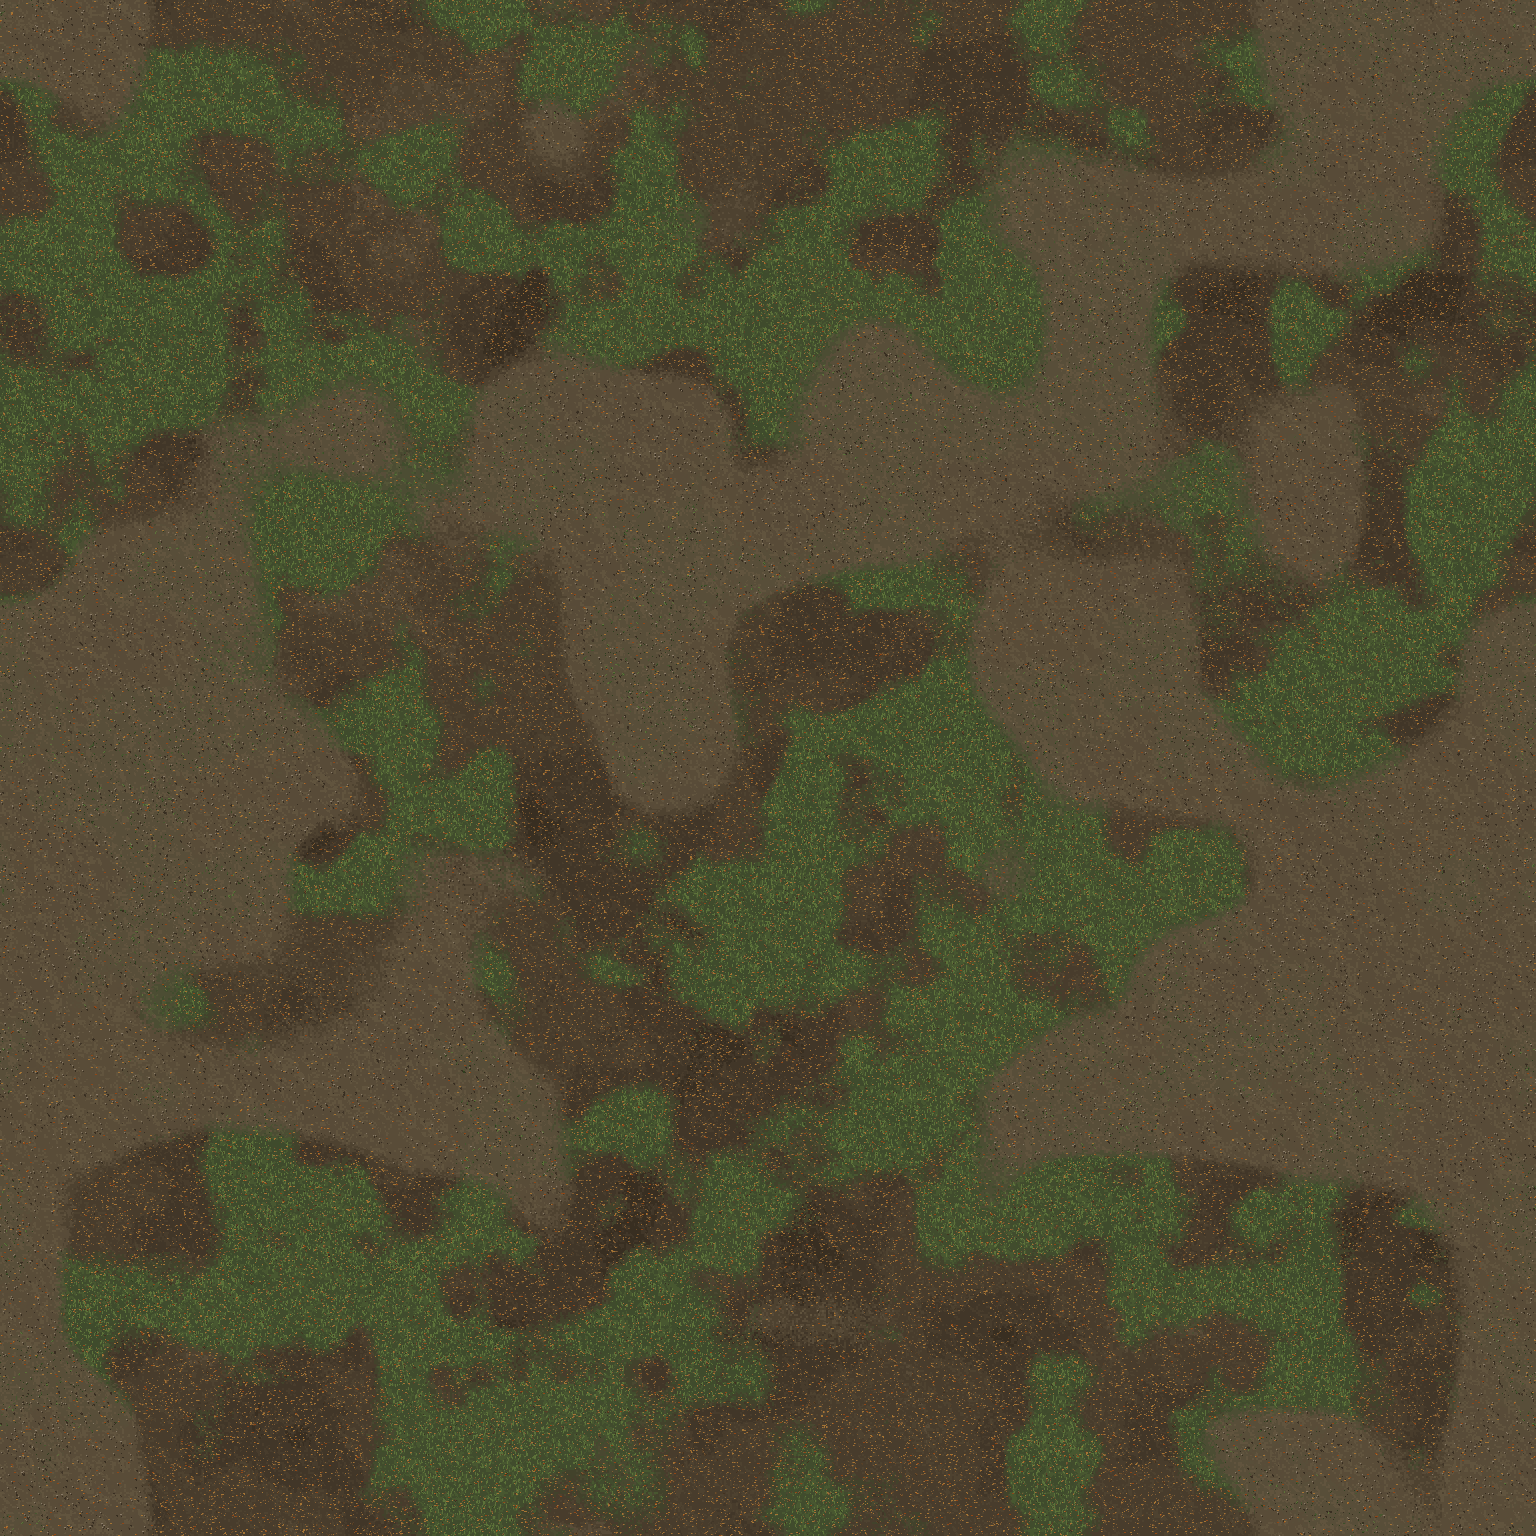
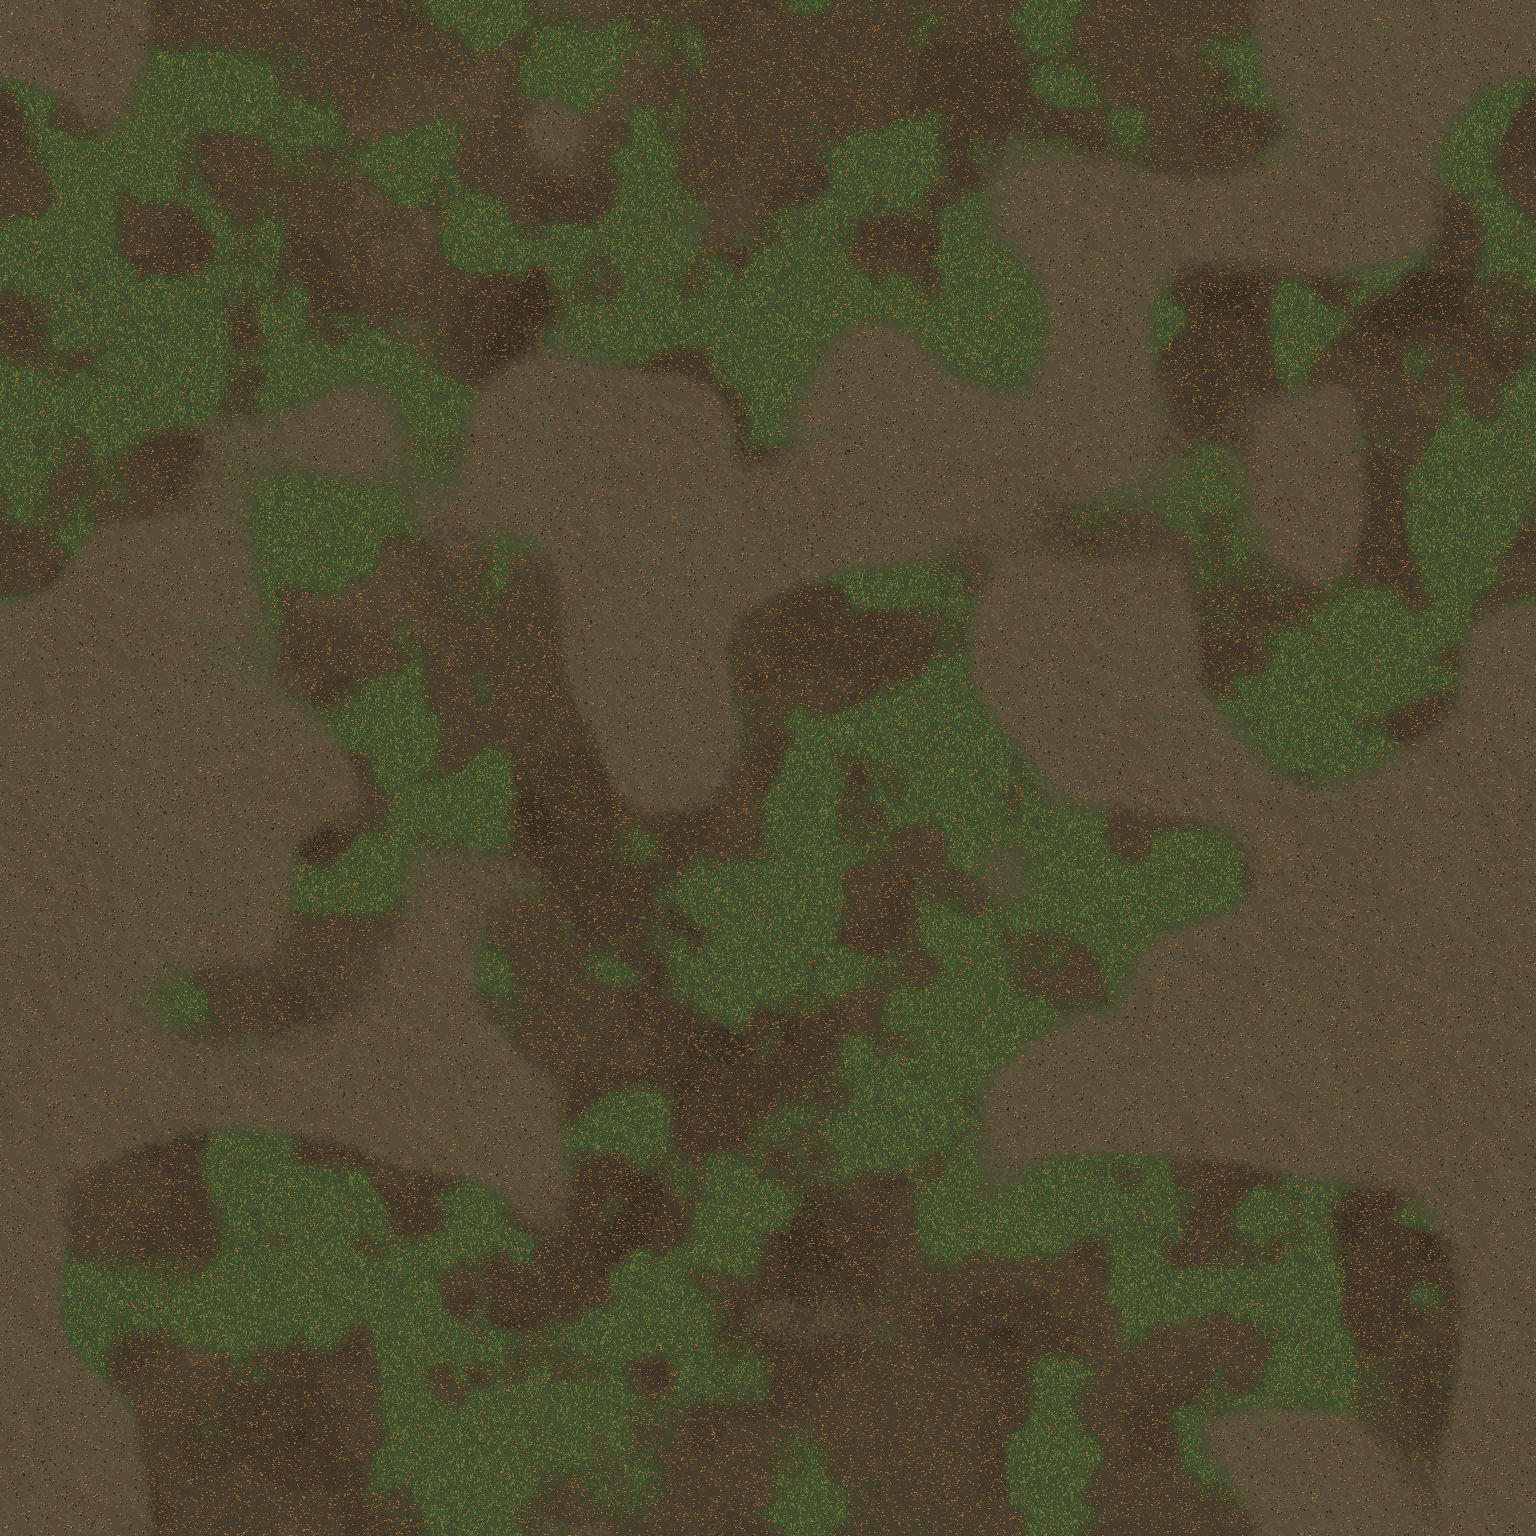
Kerbs, worn tracks and potholes on slab / concrete roads; no slab grid
Claude-Session: https://claude.ai/code/session_01Q3d652Ep37MrDZiN13QEse

diff --git a/tools/wa_ground_districts.py b/tools/wa_ground_districts.py
@@ -213,6 +213,64 @@ def ruts(alb, hf, rv, rh, offsets, half=4.0, depth=1.2, dark=0.82):
     return alb, hf
 
 
+def kerbs(alb, hf, road, walk, col=(150, 148, 140), seg=12.0, seed=0):
+    """kerb stones between carriageway and verge (4 units): lit top, a darker
+    face toward the road, joints every seg units, a few broken / missing
+    stones, then a dark gutter shadow on the road."""
+    dx = np.minimum(np.abs(X - R0), np.abs(X - R1))
+    dy = np.minimum(np.abs(Y - R0), np.abs(Y - R1))
+    edge_d = np.minimum(dx, dy)
+    along = np.where(dx < dy, Y, X)
+    kerb = walk & (edge_d < 4.0)
+    stone = np.floor(along / seg)
+    tone_k = 0.92 + 0.1 * ((stone * 7919 + seed) % 11) / 10.0
+    missing = ((stone * 131 + seed) % 29) == 0
+    k = kerb & ~missing
+    base = np.array(col, float)
+    alb[k] = base * tone_k[k][..., None]
+    alb[k & (edge_d >= 2.6)] = base * 1.14                     # lit top edge (verge side)
+    alb[k & (edge_d < 1.2)] = base * 0.66                      # face toward the road
+    alb[k & ((along % seg) < 0.6)] = base * 0.55               # joints
+    hf[k] += 1.2
+    alb[kerb & missing] *= 0.62
+    # gutter only along the kerbs themselves: arms, not across the junction
+    av = (X >= R0) & (X < R1) & ~((Y >= R0) & (Y < R1))
+    ah = (Y >= R0) & (Y < R1) & ~((X >= R0) & (X < R1))
+    gutter = (av & (dx < 3.0)) | (ah & (dy < 3.0))
+    near = ((av & (dx >= 3.0) & (dx < 5.0)) | (ah & (dy >= 3.0) & (dy < 5.0)))
+    alb[gutter] *= 0.66
+    alb[near] *= 0.86
+    return alb, hf, gutter
+
+
+def wheel_tracks(alb, hf, road, rv, rh, offsets=(-50, -24, 24, 50), half=4.0, k=0.9):
+    """worn wheel paths: broken, blotchy darkening, never a clean stripe."""
+    av, ah, inter = arm_masks(rv, rh)
+    c = (R0 + R1) / 2
+    blotch = (noise(9401, 10, 3) > 0.42) & (noise(9402, 3, 2) > 0.3)
+    for off in offsets:
+        wob = 1.5 * (noise(9403 + off, 40, 2) - 0.5)
+        t = (av & (np.abs(X - (c + off) - wob * 4) < half)) | (ah & (np.abs(Y - (c + off) - wob * 4) < half))
+        alb[t & blotch] *= k
+    return alb, hf
+
+
+def potholes(alb, hf, m, seed, n, water=(70, 78, 80)):
+    rng = np.random.default_rng(seed)
+    ys, xs = np.nonzero(m)
+    for _ in range(n):
+        i = rng.integers(0, len(xs))
+        cx, cy = X[ys[i], xs[i]], Y[ys[i], xs[i]]
+        rx, ry = rng.uniform(5, 11), rng.uniform(3, 6)
+        d = ((X - cx) / rx) ** 2 + ((Y - cy) / ry) ** 2
+        hole = m & (d < 1.0)
+        alb[hole & (d > 0.55)] *= 0.62
+        alb[hole & (d <= 0.55)] = water
+        alb[m & (d >= 1.0) & (d < 1.35) & (Y < cy)] *= 0.8
+        hf[hole] -= 1.0
+    return alb, hf
+
+
 def rural():
     road, walk, plot, rv, rh, dv, dh = masks()
     alb, hf, soil = grass_field(1101, dryness=0.6)
@@ -301,23 +359,27 @@ def woodland():
 def military():
     road, walk, plot, rv, rh, dv, dh = masks()
     alb, hf, soil = grass_field(3101, base=(66, 70, 40), dry=(104, 98, 62), dirt=(88, 78, 56), dryness=0.9)
-    slab = np.array((128, 126, 116), float)[None, None, :] * tone(3102, 30, 0.88, 1.04, 4, 3)[..., None]
+    slab = np.array((122, 120, 110), float)[None, None, :] * tone(3102, 30, 0.9, 1.04, 4, 3)[..., None]
     alb[road] = slab[road]
     hf[road] = 0.0
     c = (R0 + R1) / 2
-    sx, sy = 60.0, 28.0
-    lx, ly = np.abs(X - c), np.abs(Y - c)
-    jv = rv & ((((Y + 7) % sx) < 0.8) | ((lx % sy) < 0.8))
-    jh = rh & ((((X + 7) % sx) < 0.8) | ((ly % sy) < 0.8))
-    joint = jv | jh
-    alb[joint] = (84, 82, 76)
-    hf[joint] -= 0.5
-    cell = np.floor((Y + 7) / sx) * 7 + np.floor(lx / sy) * 13 + np.floor((X + 7) / sx) * 3
-    alb[road] *= (1.0 + 0.035 * np.sin(cell * 1.7))[road][..., None]
-    hf[road] += (np.sin(cell) * 0.25)[road]
-    alb, hf = cracks(alb, hf, road, 3103, 70, (88, 86, 80))
-    alb = clusters(alb, joint, [(84, 100, 50), (98, 112, 58)], 3104, 0.15)
+    av, ah, inter = arm_masks(rv, rh)
+    # precast road slabs: only the transverse joints and one centre joint show,
+    # thin and worn through in places (a full joint grid read as a tiled floor)
+    sx = 60.0
+    worn = noise(3109, 6, 2) > 0.42
+    jv = av & ((((Y + 7) % sx) < 0.6) | (np.abs(X - c) < 0.4))
+    jh = ah & ((((X + 7) % sx) < 0.6) | (np.abs(Y - c) < 0.4))
+    joint = (jv | jh) & worn
+    alb[joint] *= 0.8
+    hf[joint] -= 0.3
+    cell = np.where(av, np.floor((Y + 7) / sx) * 7 + (X > c) * 3, np.floor((X + 7) / sx) * 5 + (Y > c) * 11)
+    alb[road] *= (1.0 + 0.025 * np.sin(cell * 1.7))[road][..., None]
+    alb, hf = wheel_tracks(alb, hf, road, rv, rh, k=0.9)
+    alb, hf = cracks(alb, hf, road, 3103, 50, (92, 90, 84))
+    alb = clusters(alb, joint, [(84, 100, 50), (98, 112, 58)], 3104, 0.25)
     alb = speckle(alb, road, 0.012, [(146, 142, 132), (100, 98, 90)], 3105)
+    alb, hf = potholes(alb, hf, road & ~inter, 3112, 5)
     gv = soft(noise(3106, 60, 3), 0.55, 0.65)
     gravel_t = np.maximum(walk.astype(float), gv * plot)
     gcol = np.array((116, 110, 98), float)[None, None, :] * tone(3107, 3, 0.82, 1.08, 4, 2)[..., None]
@@ -325,6 +387,8 @@ def military():
     hf += 0.4 * noise(3108, 2, 2) * gravel_t
     alb = speckle(alb, gravel_t > 0.5, 0.2, [(150, 146, 134), (84, 80, 72), (124, 116, 100)], 3109)
     alb = blades(alb, plot & (gravel_t < 0.5), 3110, 60000, cols=((96, 92, 56), (110, 104, 62), (124, 116, 70)))
+    alb, hf, gutter = kerbs(alb, hf, road, walk, (146, 144, 134), 14.0, 3)
+    alb = clusters(alb, gutter, [(150, 104, 54), (84, 100, 50)], 3113, 0.05)
     alb = leaves(alb, plot, 0.002, 3111)
     return alb, hf
 
@@ -342,6 +406,9 @@ def industrial():
     oil = soft(noise(4106, 14, 3), 0.78, 0.84) * road
     alb *= (1 - 0.22 * oil)[..., None]
     alb = speckle(alb, road, 0.012, [(140, 136, 126), (88, 86, 80)], 4107)
+    alb, hf = wheel_tracks(alb, hf, road, rv, rh, k=0.88)
+    av, ah, inter = arm_masks(rv, rh)
+    alb, hf = potholes(alb, hf, road & ~inter, 4116, 6)
     lt = np.maximum(walk.astype(float), soft(noise(4108, 80, 3), 0.42, 0.52) * plot)
     lcol = np.array((100, 94, 84), float)[None, None, :] * tone(4109, 3, 0.82, 1.08, 4, 2)[..., None]
     alb = alb * (1 - lt[..., None]) + lcol * lt[..., None]
@@ -350,6 +417,8 @@ def industrial():
     pud = soft(noise(4112, 40, 3), 0.76, 0.8) * (lt > 0.5)
     alb = blend(alb, (60, 66, 68), pud * 0.8)
     alb = blades(alb, (plot & (lt < 0.5)) | ((lt > 0.5) & (noise(4113, 20, 2) > 0.68)), 4114, 50000)
+    alb, hf, gutter = kerbs(alb, hf, road, walk, (138, 136, 128), 12.0, 4)
+    alb = clusters(alb, gutter, [(150, 104, 54), (60, 58, 52)], 4117, 0.05)
     alb = leaves(alb, plot | walk, 0.003, 4115)
     return alb, hf
 
@@ -477,9 +546,11 @@ def woodland_yard():
 
 
 def _slabs(alb, hf, m, sx, sy, joint_col, seed):
-    jx = ((X % sx) < 0.8) | ((Y % sy) < 0.8)
-    joint = m & jx
-    alb[joint] = joint_col
+    # thin, partly worn-through joints with a slight per-slab tone: a hard full
+    # grid read as floor tiles
+    jx = ((X % sx) < 0.6) | ((Y % sy) < 0.6)
+    joint = m & jx & (noise(9301 + int(seed * 10), 6, 2) > 0.4)
+    alb[joint] = alb[joint] * 0.55 + np.array(joint_col, float) * 0.45
     hf[joint] -= 0.5
     cell = np.floor(X / sx) * 7 + np.floor(Y / sy) * 13
     alb[m] *= (1.0 + 0.035 * np.sin(cell * 1.7 + seed))[m][..., None]

diff --git a/README_1380_DEV1_WORLD_HD.md b/README_1380_DEV1_WORLD_HD.md
@@ -233,3 +233,14 @@ QA: `tests/qa_vertical_fence_capture.gd`.
   единицу) и выглядели крупнопиксельными. Теперь у них 2 тексела, как у всего мира.
 - Подмена в `_world_prop_sprite` по `PROP_HD_KINDS`: линия опоры на земле та же,
   у тени правильное направление, контактный эллипс не нужен.
+
+## Дороги военного района и промзоны (dev11)
+
+- Убрана сетка прямоугольников на дороге из плит: видны только тонкие
+  поперечные стыки и один осевой, местами стёртые, с травой в щелях.
+- Бордюры (`kerbs`): камни 4 единицы со светлым верхом, тёмной гранью к
+  дороге, стыками, редкими выпавшими камнями и тенью-лотком с листвой.
+  Лоток идёт только вдоль бордюров, через перекрёсток не тянется.
+- Колеи (`wheel_tracks`) пятнистые, с изгибом, без ровных полос; выбоины с
+  лужами (`potholes`).
+- Площадки локаций: стыки плит тоньше и местами стёрты.
